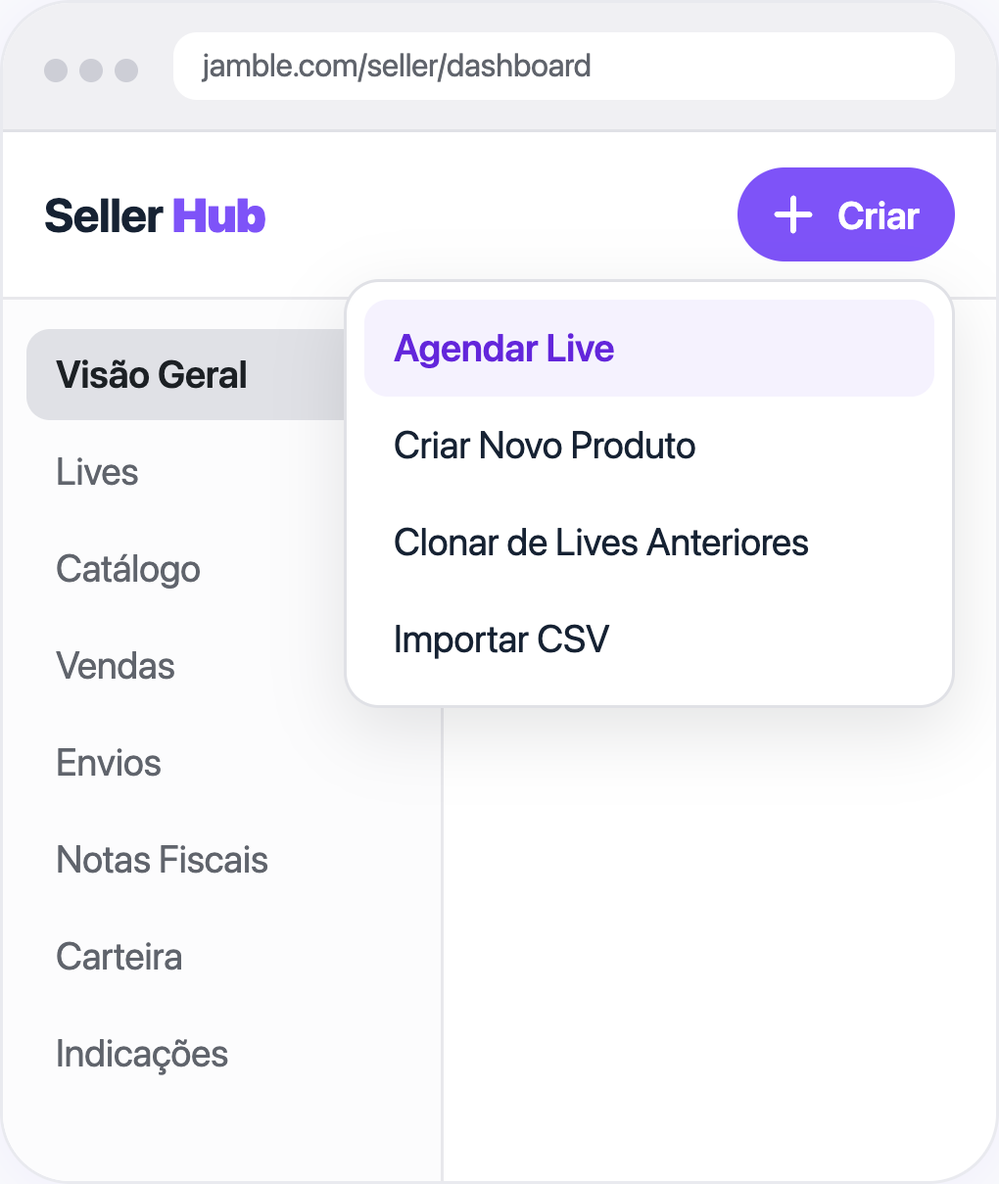
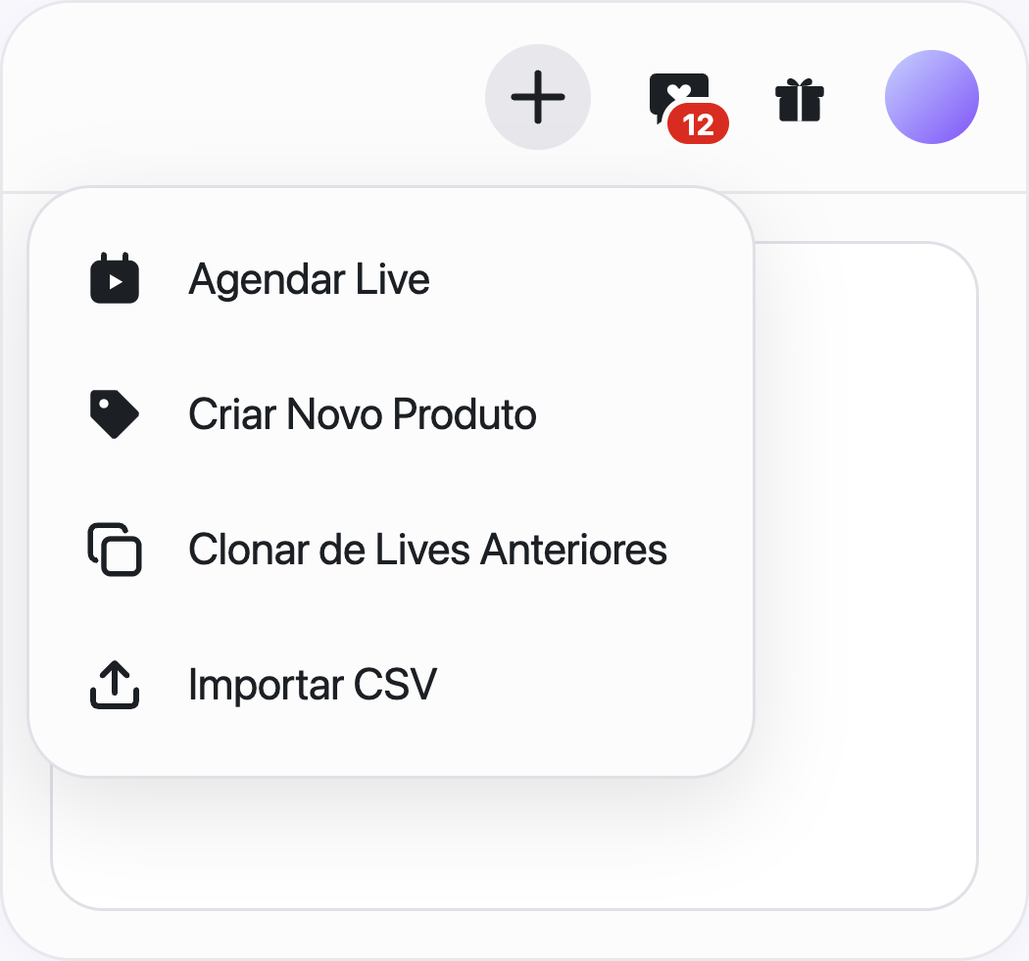
content: Seller Hub mockups from real screens, + button, no giveaways left
- Seller Hub: header + menu with icons (Agendar Live, Criar Novo Produto,
  Clonar de Lives Anteriores, Importar CSV), CSV dialog as shipped (live in
  the subtitle, Subir CSV / Baixar Modelo XLSX), live waiting room (Live
  começa em 4m 59s, Iniciar Live, Testar câmera e som) replacing the dialog
- The create button is a '+' in the header: wording updated in 5 articles
- Giveaways (removed Jul 1): dropped the remaining mentions in pré-ofertas,
  descoberta and clonar, and the 'Criar créditos de sorteios' row from the
  variants mockup (v4, also 'lives' instead of 'shows')

diff --git a/articles/seller-hub-sell-from-your-computer/mockup-sources/menu__pt-br.html b/articles/seller-hub-sell-from-your-computer/mockup-sources/menu__pt-br.html
@@ -1,32 +1,17 @@
 <!DOCTYPE html><html><head><meta name="viewport" content="width=device-width, initial-scale=1"><style>
 * { box-sizing: border-box; margin: 0; padding: 0; }
-body { font-family: -apple-system, "SF Pro Display", BlinkMacSystemFont, system-ui, sans-serif; background: #F9FAFC; display: flex; justify-content: center; padding: 12px; color: #162233; }
-.phone { width: 340px; background: #FFFFFF; border-radius: 24px; box-shadow: 0 2px 20px rgba(126,83,248,0.08); border: 1px solid #E9EAEF; overflow: hidden; }
-.btn { display: flex; align-items: center; justify-content: center; gap: 8px; height: 44px; border-radius: 22px; font-size: 15px; font-weight: 600; }
-.btn-brand { background: #7E53F8; color: #FFFFFF; }
-.btn-secondary { background: #E9EAEF; color: #162233; }
-.btn-outline { background: #FFFFFF; color: #162233; border: 1px solid #DADDE3; }
-.muted { color: #6B7A92; }
-.tert { color: #A0A7B7; }
-.bar { display:flex; align-items:center; gap:8px; padding:10px 14px; background:#F0F0F3; border-bottom:1px solid #E0E1E6; }
-.dots span { display:inline-block; width:8px; height:8px; border-radius:50%; background:#CDCED6; margin-right:4px; }
-.url { flex:1; background:#FFFFFF; border-radius:8px; padding:5px 10px; font-size:11px; color:#60646C; }
-.hdr { display:flex; align-items:center; justify-content:space-between; padding:12px 14px; border-bottom:1px solid #E8E8EC; }
-.mark { font-size:16px; font-weight:700; letter-spacing:-0.01em; }
-.mark b { color:#7E53F8; }
-.create { position:relative; }
-.create .btn { height:32px; padding:0 12px; font-size:13px; border-radius:16px; }
-.drop { position:absolute; right:0; top:38px; width:208px; background:#FFFFFF; border:1px solid #E0E1E6; border-radius:12px; box-shadow:0 8px 24px rgba(28,32,36,0.12); padding:6px; z-index:2; }
-.drop div { padding:9px 10px; font-size:13px; border-radius:8px; }
-.drop div:first-child { background:rgba(126,83,248,0.08); color:#6326DB; font-weight:600; }
-.body { display:flex; min-height:300px; }
-.side { width:150px; padding:10px 8px; border-right:1px solid #E8E8EC; background:#FCFCFD; }
-.side div { padding:8px 10px; font-size:13px; border-radius:8px; color:#60646C; margin-bottom:2px; }
-.side div.on { background:#E0E1E6; color:#1C2024; font-weight:600; }
-.main { flex:1; padding:14px 12px; }
-.ph { height:12px; border-radius:6px; background:#F0F0F3; margin-bottom:10px; }
+body { font-family: "SF Pro Display", "SF Pro Text", -apple-system, BlinkMacSystemFont, system-ui, sans-serif; background: #F9FAFC; display: flex; justify-content: center; padding: 12px; color: #1C2024; }
+.phone { width: 350px; background: #FCFCFD; border-radius: 24px; box-shadow: 0 2px 20px rgba(126,83,248,0.08); border: 1px solid #E8E8EC; overflow: hidden; position: relative; }
+.top { display:flex; align-items:center; justify-content:flex-end; gap:18px; padding:14px 16px; border-bottom:1px solid #E8E8EC; background:#FCFCFD; }
+.ib { position:relative; display:flex; }
+.ib.on { width:36px; height:36px; border-radius:50%; background:#E8E8EC; align-items:center; justify-content:center; }
+.bd { position:absolute; right:-7px; bottom:-6px; background:#D92C20; color:#FFFFFF; font-size:10px; font-weight:700; border-radius:9px; padding:1px 5px; border:2px solid #FCFCFD; }
+.av { width:32px; height:32px; border-radius:50%; background:linear-gradient(135deg,#C7D2FE,#7E53F8); }
+.menu { position:absolute; right:92px; top:62px; width:248px; background:#FCFCFD; border:1px solid #E0E1E6; border-radius:22px; box-shadow:0 10px 30px rgba(28,32,36,0.12); padding:8px 0; z-index:2; }
+.menu div { display:flex; align-items:center; gap:14px; padding:12px 18px; font-size:15px; }
+.bg { padding:16px; height:260px; }
+.card { border:1px solid #E0E1E6; border-radius:18px; height:100%; background:#FFFFFF; }
 </style></head><body><div class="phone">
-<div class="bar"><div class="dots"><span></span><span></span><span></span></div><div class="url">jamble.com/seller/dashboard</div></div>
-<div class="hdr"><div class="mark">Seller <b>Hub</b></div><div class="create"><div class="btn btn-brand"><svg width="14" height="14" viewBox="0 0 14 14" fill="none"><path d="M7 1.5V12.5M1.5 7H12.5" stroke="currentColor" stroke-width="2" stroke-linecap="round"/></svg> Criar</div><div class="drop"><div>Agendar Live</div><div>Criar Novo Produto</div><div>Clonar de Lives Anteriores</div><div>Importar CSV</div></div></div></div>
-<div class="body"><div class="side"><div class=on>Visão Geral</div><div>Lives</div><div>Catálogo</div><div>Vendas</div><div>Envios</div><div>Notas Fiscais</div><div>Carteira</div><div>Indicações</div></div><div class="main"><div class="ph" style="width:70%"></div><div class="ph" style="width:90%"></div><div class="ph" style="width:55%"></div></div></div>
+<div class="top"><div class="ib on"><svg width="22" height="22" viewBox="0 0 22 22"><path d="M11 3V19M3 11H19" stroke="#1C2024" stroke-width="2.4" stroke-linecap="round"/></svg></div><div class="ib"><svg width="24" height="24" viewBox="0 0 24 24"><path d="M4 4H20C21.1 4 22 4.9 22 6V16C22 17.1 21.1 18 20 18H9L4.5 21.5V18H4C2.9 18 2 17.1 2 16V6C2 4.9 2.9 4 4 4Z" fill="#1C2024"/><path d="M12 14.2L8.6 11C7.6 10 7.8 8.4 9 7.9C9.8 7.5 10.8 7.8 11.3 8.5L12 9.3L12.7 8.5C13.2 7.8 14.2 7.5 15 7.9C16.2 8.4 16.4 10 15.4 11Z" fill="#FFFFFF"/></svg><span class="bd">12</span></div><div class="ib"><svg width="22" height="22" viewBox="0 0 24 24"><rect x="3" y="8" width="18" height="4" rx="1" fill="#1C2024"/><rect x="4.5" y="12" width="15" height="9" rx="1.2" fill="#1C2024"/><path d="M12 8V21" stroke="#FFFFFF" stroke-width="1.6"/><path d="M12 8C10 4 6.5 4.5 7.5 7.2C8 8 12 8 12 8ZM12 8C14 4 17.5 4.5 16.5 7.2C16 8 12 8 12 8Z" fill="#1C2024"/></svg></div><div class="av"></div></div>
+<div class="menu"><div><svg width="22" height="22" viewBox="0 0 24 24"><rect x="3" y="5" width="18" height="16" rx="3.5" fill="#1C2024"/><path d="M8 3V6M16 3V6" stroke="#1C2024" stroke-width="2.2" stroke-linecap="round"/><path d="M10.2 10.2L15 13L10.2 15.8Z" fill="#FFFFFF"/></svg>Agendar Live</div><div><svg width="22" height="22" viewBox="0 0 24 24"><path d="M3 12.2V4.5C3 3.7 3.7 3 4.5 3H12.2C12.6 3 13 3.2 13.3 3.4L20.6 10.7C21.2 11.3 21.2 12.3 20.6 12.9L12.9 20.6C12.3 21.2 11.3 21.2 10.7 20.6L3.4 13.3C3.2 13 3 12.6 3 12.2Z" fill="#1C2024"/><circle cx="8" cy="8" r="1.7" fill="#FFFFFF"/></svg>Criar Novo Produto</div><div><svg width="22" height="22" viewBox="0 0 24 24" fill="none"><rect x="8" y="8" width="13" height="13" rx="2.5" stroke="#1C2024" stroke-width="2"/><path d="M16 5V5.5C16 4.1 14.9 3 13.5 3H5.5C4.1 3 3 4.1 3 5.5V13.5C3 14.9 4.1 16 5.5 16H5" stroke="#1C2024" stroke-width="2" stroke-linecap="round"/></svg>Clonar de Lives Anteriores</div><div><svg width="22" height="22" viewBox="0 0 24 24" fill="none"><path d="M12 15V4M12 4L7.5 8.5M12 4L16.5 8.5" stroke="#1C2024" stroke-width="2.2" stroke-linecap="round" stroke-linejoin="round"/><path d="M4 14V18C4 19.1 4.9 20 6 20H18C19.1 20 20 19.1 20 18V14" stroke="#1C2024" stroke-width="2.2" stroke-linecap="round"/></svg>Importar CSV</div></div><div class="bg"><div class="card"></div></div>
 </div></body></html>

diff --git a/articles/seller-hub-sell-from-your-computer/mockup-sources/menu__en.html b/articles/seller-hub-sell-from-your-computer/mockup-sources/menu__en.html
@@ -1,32 +1,17 @@
 <!DOCTYPE html><html><head><meta name="viewport" content="width=device-width, initial-scale=1"><style>
 * { box-sizing: border-box; margin: 0; padding: 0; }
-body { font-family: -apple-system, "SF Pro Display", BlinkMacSystemFont, system-ui, sans-serif; background: #F9FAFC; display: flex; justify-content: center; padding: 12px; color: #162233; }
-.phone { width: 340px; background: #FFFFFF; border-radius: 24px; box-shadow: 0 2px 20px rgba(126,83,248,0.08); border: 1px solid #E9EAEF; overflow: hidden; }
-.btn { display: flex; align-items: center; justify-content: center; gap: 8px; height: 44px; border-radius: 22px; font-size: 15px; font-weight: 600; }
-.btn-brand { background: #7E53F8; color: #FFFFFF; }
-.btn-secondary { background: #E9EAEF; color: #162233; }
-.btn-outline { background: #FFFFFF; color: #162233; border: 1px solid #DADDE3; }
-.muted { color: #6B7A92; }
-.tert { color: #A0A7B7; }
-.bar { display:flex; align-items:center; gap:8px; padding:10px 14px; background:#F0F0F3; border-bottom:1px solid #E0E1E6; }
-.dots span { display:inline-block; width:8px; height:8px; border-radius:50%; background:#CDCED6; margin-right:4px; }
-.url { flex:1; background:#FFFFFF; border-radius:8px; padding:5px 10px; font-size:11px; color:#60646C; }
-.hdr { display:flex; align-items:center; justify-content:space-between; padding:12px 14px; border-bottom:1px solid #E8E8EC; }
-.mark { font-size:16px; font-weight:700; letter-spacing:-0.01em; }
-.mark b { color:#7E53F8; }
-.create { position:relative; }
-.create .btn { height:32px; padding:0 12px; font-size:13px; border-radius:16px; }
-.drop { position:absolute; right:0; top:38px; width:208px; background:#FFFFFF; border:1px solid #E0E1E6; border-radius:12px; box-shadow:0 8px 24px rgba(28,32,36,0.12); padding:6px; z-index:2; }
-.drop div { padding:9px 10px; font-size:13px; border-radius:8px; }
-.drop div:first-child { background:rgba(126,83,248,0.08); color:#6326DB; font-weight:600; }
-.body { display:flex; min-height:300px; }
-.side { width:150px; padding:10px 8px; border-right:1px solid #E8E8EC; background:#FCFCFD; }
-.side div { padding:8px 10px; font-size:13px; border-radius:8px; color:#60646C; margin-bottom:2px; }
-.side div.on { background:#E0E1E6; color:#1C2024; font-weight:600; }
-.main { flex:1; padding:14px 12px; }
-.ph { height:12px; border-radius:6px; background:#F0F0F3; margin-bottom:10px; }
+body { font-family: "SF Pro Display", "SF Pro Text", -apple-system, BlinkMacSystemFont, system-ui, sans-serif; background: #F9FAFC; display: flex; justify-content: center; padding: 12px; color: #1C2024; }
+.phone { width: 350px; background: #FCFCFD; border-radius: 24px; box-shadow: 0 2px 20px rgba(126,83,248,0.08); border: 1px solid #E8E8EC; overflow: hidden; position: relative; }
+.top { display:flex; align-items:center; justify-content:flex-end; gap:18px; padding:14px 16px; border-bottom:1px solid #E8E8EC; background:#FCFCFD; }
+.ib { position:relative; display:flex; }
+.ib.on { width:36px; height:36px; border-radius:50%; background:#E8E8EC; align-items:center; justify-content:center; }
+.bd { position:absolute; right:-7px; bottom:-6px; background:#D92C20; color:#FFFFFF; font-size:10px; font-weight:700; border-radius:9px; padding:1px 5px; border:2px solid #FCFCFD; }
+.av { width:32px; height:32px; border-radius:50%; background:linear-gradient(135deg,#C7D2FE,#7E53F8); }
+.menu { position:absolute; right:92px; top:62px; width:248px; background:#FCFCFD; border:1px solid #E0E1E6; border-radius:22px; box-shadow:0 10px 30px rgba(28,32,36,0.12); padding:8px 0; z-index:2; }
+.menu div { display:flex; align-items:center; gap:14px; padding:12px 18px; font-size:15px; }
+.bg { padding:16px; height:260px; }
+.card { border:1px solid #E0E1E6; border-radius:18px; height:100%; background:#FFFFFF; }
 </style></head><body><div class="phone">
-<div class="bar"><div class="dots"><span></span><span></span><span></span></div><div class="url">jamble.com/seller/dashboard</div></div>
-<div class="hdr"><div class="mark">Seller <b>Hub</b></div><div class="create"><div class="btn btn-brand"><svg width="14" height="14" viewBox="0 0 14 14" fill="none"><path d="M7 1.5V12.5M1.5 7H12.5" stroke="currentColor" stroke-width="2" stroke-linecap="round"/></svg> Create</div><div class="drop"><div>Schedule a Live</div><div>Create New Listing</div><div>Clone from Past Lives</div><div>Import CSV</div></div></div></div>
-<div class="body"><div class="side"><div class=on>Overview</div><div>Lives</div><div>Catalog</div><div>Sales</div><div>Shipments</div><div>Invoices</div><div>Wallet</div><div>Referrals</div></div><div class="main"><div class="ph" style="width:70%"></div><div class="ph" style="width:90%"></div><div class="ph" style="width:55%"></div></div></div>
+<div class="top"><div class="ib on"><svg width="22" height="22" viewBox="0 0 22 22"><path d="M11 3V19M3 11H19" stroke="#1C2024" stroke-width="2.4" stroke-linecap="round"/></svg></div><div class="ib"><svg width="24" height="24" viewBox="0 0 24 24"><path d="M4 4H20C21.1 4 22 4.9 22 6V16C22 17.1 21.1 18 20 18H9L4.5 21.5V18H4C2.9 18 2 17.1 2 16V6C2 4.9 2.9 4 4 4Z" fill="#1C2024"/><path d="M12 14.2L8.6 11C7.6 10 7.8 8.4 9 7.9C9.8 7.5 10.8 7.8 11.3 8.5L12 9.3L12.7 8.5C13.2 7.8 14.2 7.5 15 7.9C16.2 8.4 16.4 10 15.4 11Z" fill="#FFFFFF"/></svg><span class="bd">12</span></div><div class="ib"><svg width="22" height="22" viewBox="0 0 24 24"><rect x="3" y="8" width="18" height="4" rx="1" fill="#1C2024"/><rect x="4.5" y="12" width="15" height="9" rx="1.2" fill="#1C2024"/><path d="M12 8V21" stroke="#FFFFFF" stroke-width="1.6"/><path d="M12 8C10 4 6.5 4.5 7.5 7.2C8 8 12 8 12 8ZM12 8C14 4 17.5 4.5 16.5 7.2C16 8 12 8 12 8Z" fill="#1C2024"/></svg></div><div class="av"></div></div>
+<div class="menu"><div><svg width="22" height="22" viewBox="0 0 24 24"><rect x="3" y="5" width="18" height="16" rx="3.5" fill="#1C2024"/><path d="M8 3V6M16 3V6" stroke="#1C2024" stroke-width="2.2" stroke-linecap="round"/><path d="M10.2 10.2L15 13L10.2 15.8Z" fill="#FFFFFF"/></svg>Schedule a Live</div><div><svg width="22" height="22" viewBox="0 0 24 24"><path d="M3 12.2V4.5C3 3.7 3.7 3 4.5 3H12.2C12.6 3 13 3.2 13.3 3.4L20.6 10.7C21.2 11.3 21.2 12.3 20.6 12.9L12.9 20.6C12.3 21.2 11.3 21.2 10.7 20.6L3.4 13.3C3.2 13 3 12.6 3 12.2Z" fill="#1C2024"/><circle cx="8" cy="8" r="1.7" fill="#FFFFFF"/></svg>Create New Listing</div><div><svg width="22" height="22" viewBox="0 0 24 24" fill="none"><rect x="8" y="8" width="13" height="13" rx="2.5" stroke="#1C2024" stroke-width="2"/><path d="M16 5V5.5C16 4.1 14.9 3 13.5 3H5.5C4.1 3 3 4.1 3 5.5V13.5C3 14.9 4.1 16 5.5 16H5" stroke="#1C2024" stroke-width="2" stroke-linecap="round"/></svg>Clone from Past Lives</div><div><svg width="22" height="22" viewBox="0 0 24 24" fill="none"><path d="M12 15V4M12 4L7.5 8.5M12 4L16.5 8.5" stroke="#1C2024" stroke-width="2.2" stroke-linecap="round" stroke-linejoin="round"/><path d="M4 14V18C4 19.1 4.9 20 6 20H18C19.1 20 20 19.1 20 18V14" stroke="#1C2024" stroke-width="2.2" stroke-linecap="round"/></svg>Import CSV</div></div><div class="bg"><div class="card"></div></div>
 </div></body></html>

diff --git a/articles/seller-hub-sell-from-your-computer/mockup-sources/csv-import__pt-br.html b/articles/seller-hub-sell-from-your-computer/mockup-sources/csv-import__pt-br.html
@@ -1,29 +1,23 @@
 <!DOCTYPE html><html><head><meta name="viewport" content="width=device-width, initial-scale=1"><style>
 * { box-sizing: border-box; margin: 0; padding: 0; }
-body { font-family: -apple-system, "SF Pro Display", BlinkMacSystemFont, system-ui, sans-serif; background: #F9FAFC; display: flex; justify-content: center; padding: 12px; color: #162233; }
-.phone { width: 340px; background: #FFFFFF; border-radius: 24px; box-shadow: 0 2px 20px rgba(126,83,248,0.08); border: 1px solid #E9EAEF; overflow: hidden; }
-.btn { display: flex; align-items: center; justify-content: center; gap: 8px; height: 44px; border-radius: 22px; font-size: 15px; font-weight: 600; }
-.btn-brand { background: #7E53F8; color: #FFFFFF; }
-.btn-secondary { background: #E9EAEF; color: #162233; }
-.btn-outline { background: #FFFFFF; color: #162233; border: 1px solid #DADDE3; }
-.muted { color: #6B7A92; }
-.tert { color: #A0A7B7; }
-.dlg { padding:18px; }
-.dlg h1 { font-size:18px; font-weight:600; line-height:24px; }
-.dlg .sub { font-size:13px; line-height:18px; margin:4px 0 16px; }
-.lbl { font-size:12px; font-weight:600; color:#6B7A92; margin-bottom:6px; }
-.sel { display:flex; justify-content:space-between; align-items:center; border:1px solid #DADDE3; border-radius:10px; padding:11px 12px; font-size:14px; margin-bottom:14px; }
-.zone { border:1.5px dashed #BDC2CD; border-radius:12px; background:#F9FAFC; padding:20px 12px; text-align:center; margin-bottom:12px; }
-.zone .t { font-size:15px; font-weight:600; margin-top:8px; }
-.zone .h { font-size:12px; margin-top:4px; }
-.row { display:flex; gap:10px; }
-.row .btn { flex:1; font-size:13px; height:40px; }
-.foot { margin-top:14px; }
-.btn-dis { background:#E9EAEF; color:#BDC2CD; }
+body { font-family: "SF Pro Display", "SF Pro Text", -apple-system, BlinkMacSystemFont, system-ui, sans-serif; background: #F9FAFC; display: flex; justify-content: center; padding: 12px; color: #1C2024; }
+.phone { width: 350px; background: #FCFCFD; border-radius: 24px; box-shadow: 0 2px 20px rgba(126,83,248,0.08); border: 1px solid #E8E8EC; overflow: hidden; position: relative; }
+.hd { display:flex; align-items:center; gap:12px; padding:16px; border-bottom:1px solid #E8E8EC; }
+.cb { width:32px; height:32px; border-radius:50%; background:#F0F0F3; display:flex; align-items:center; justify-content:center; font-size:16px; flex-shrink:0; }
+.tt { flex:1; min-width:0; }
+.tt b { display:block; font-size:16px; }
+.tt span { font-size:12px; color:#60646C; }
+.zone { margin:12px; border:1.5px dashed #D9D9E0; border-radius:18px; background:#F9F9FB; padding:20px 14px; text-align:center; }
+.uc { width:52px; height:52px; border-radius:50%; border:1px solid #E0E1E6; background:#FFFFFF; display:flex; align-items:center; justify-content:center; margin:0 auto 12px; }
+.z1 { font-size:16px; font-weight:600; }
+.z2 { font-size:13px; color:#60646C; margin-top:4px; }
+.z3 { font-size:12px; color:#80838D; line-height:17px; margin:14px 4px 14px; }
+.bs { display:flex; gap:8px; justify-content:center; }
+.b { height:38px; border-radius:19px; padding:0 14px; display:flex; align-items:center; font-size:13px; font-weight:600; }
+.b1 { background:#1C2024; color:#FFFFFF; }
+.b2 { background:#FFFFFF; border:1px solid #D9D9E0; }
 </style></head><body><div class="phone">
-<div class="dlg"><h1>Importar produtos por CSV</h1><div class="sub muted">Nada é criado antes de você revisar a prévia.</div>
-<div class="lbl">Importar para a Live</div><div class="sel"><span>Pokémon TCG, sexta 20h</span><svg width="8" height="13" viewBox="0 0 8 13" fill="none"><path d="M1.5 1.5L6.5 6.5L1.5 11.5" stroke="#A0A7B7" stroke-width="1.8" stroke-linecap="round" stroke-linejoin="round"/></svg></div>
-<div class="zone"><svg width="26" height="26" viewBox="0 0 24 24" fill="none"><path d="M12 15V4M12 4L7.5 8.5M12 4L16.5 8.5" stroke="#7E53F8" stroke-width="2" stroke-linecap="round" stroke-linejoin="round"/><path d="M4 15V18C4 19.1 4.9 20 6 20H18C19.1 20 20 19.1 20 18V15" stroke="#7E53F8" stroke-width="2" stroke-linecap="round"/></svg><div class="t">Arraste seu CSV aqui</div><div class="h tert">Tamanho máximo: 2 MB · 200 linhas</div></div>
-<div class="row"><div class="btn btn-outline">Baixar Modelo XLSX</div><div class="btn btn-secondary">Subir CSV</div></div>
-<div class="foot"><div class="btn btn-dis">Importar</div></div></div>
+<div class="hd"><div class="cb">‹</div><div class="tt"><b>Importar produtos por CSV</b><span>Os produtos escolhidos entram nesta Live: Pokémon TCG sexta</span></div><div class="cb">✕</div></div>
+<div class="zone"><div class="uc"><svg width="22" height="22" viewBox="0 0 24 24" fill="none"><path d="M12 15V4M12 4L7.5 8.5M12 4L16.5 8.5" stroke="#1C2024" stroke-width="2.2" stroke-linecap="round" stroke-linejoin="round"/><path d="M4 14V18C4 19.1 4.9 20 6 20H18C19.1 20 20 19.1 20 18V14" stroke="#1C2024" stroke-width="2.2" stroke-linecap="round"/></svg></div><div class="z1">Arraste seu CSV aqui</div><div class="z2">Tamanho máximo: 2 MB · 200 linhas</div><div class="z3">Abra o modelo XLSX no Excel, escolha a aba da categoria e clique nas células de preenchimento para selecionar as opções das listas.</div>
+<div class="bs"><div class="b b1">Subir CSV</div><div class="b b2">Baixar Modelo XLSX</div></div></div>
 </div></body></html>

diff --git a/articles/seller-hub-sell-from-your-computer/mockup-sources/csv-import__en.html b/articles/seller-hub-sell-from-your-computer/mockup-sources/csv-import__en.html
@@ -1,29 +1,23 @@
 <!DOCTYPE html><html><head><meta name="viewport" content="width=device-width, initial-scale=1"><style>
 * { box-sizing: border-box; margin: 0; padding: 0; }
-body { font-family: -apple-system, "SF Pro Display", BlinkMacSystemFont, system-ui, sans-serif; background: #F9FAFC; display: flex; justify-content: center; padding: 12px; color: #162233; }
-.phone { width: 340px; background: #FFFFFF; border-radius: 24px; box-shadow: 0 2px 20px rgba(126,83,248,0.08); border: 1px solid #E9EAEF; overflow: hidden; }
-.btn { display: flex; align-items: center; justify-content: center; gap: 8px; height: 44px; border-radius: 22px; font-size: 15px; font-weight: 600; }
-.btn-brand { background: #7E53F8; color: #FFFFFF; }
-.btn-secondary { background: #E9EAEF; color: #162233; }
-.btn-outline { background: #FFFFFF; color: #162233; border: 1px solid #DADDE3; }
-.muted { color: #6B7A92; }
-.tert { color: #A0A7B7; }
-.dlg { padding:18px; }
-.dlg h1 { font-size:18px; font-weight:600; line-height:24px; }
-.dlg .sub { font-size:13px; line-height:18px; margin:4px 0 16px; }
-.lbl { font-size:12px; font-weight:600; color:#6B7A92; margin-bottom:6px; }
-.sel { display:flex; justify-content:space-between; align-items:center; border:1px solid #DADDE3; border-radius:10px; padding:11px 12px; font-size:14px; margin-bottom:14px; }
-.zone { border:1.5px dashed #BDC2CD; border-radius:12px; background:#F9FAFC; padding:20px 12px; text-align:center; margin-bottom:12px; }
-.zone .t { font-size:15px; font-weight:600; margin-top:8px; }
-.zone .h { font-size:12px; margin-top:4px; }
-.row { display:flex; gap:10px; }
-.row .btn { flex:1; font-size:13px; height:40px; }
-.foot { margin-top:14px; }
-.btn-dis { background:#E9EAEF; color:#BDC2CD; }
+body { font-family: "SF Pro Display", "SF Pro Text", -apple-system, BlinkMacSystemFont, system-ui, sans-serif; background: #F9FAFC; display: flex; justify-content: center; padding: 12px; color: #1C2024; }
+.phone { width: 350px; background: #FCFCFD; border-radius: 24px; box-shadow: 0 2px 20px rgba(126,83,248,0.08); border: 1px solid #E8E8EC; overflow: hidden; position: relative; }
+.hd { display:flex; align-items:center; gap:12px; padding:16px; border-bottom:1px solid #E8E8EC; }
+.cb { width:32px; height:32px; border-radius:50%; background:#F0F0F3; display:flex; align-items:center; justify-content:center; font-size:16px; flex-shrink:0; }
+.tt { flex:1; min-width:0; }
+.tt b { display:block; font-size:16px; }
+.tt span { font-size:12px; color:#60646C; }
+.zone { margin:12px; border:1.5px dashed #D9D9E0; border-radius:18px; background:#F9F9FB; padding:20px 14px; text-align:center; }
+.uc { width:52px; height:52px; border-radius:50%; border:1px solid #E0E1E6; background:#FFFFFF; display:flex; align-items:center; justify-content:center; margin:0 auto 12px; }
+.z1 { font-size:16px; font-weight:600; }
+.z2 { font-size:13px; color:#60646C; margin-top:4px; }
+.z3 { font-size:12px; color:#80838D; line-height:17px; margin:14px 4px 14px; }
+.bs { display:flex; gap:8px; justify-content:center; }
+.b { height:38px; border-radius:19px; padding:0 14px; display:flex; align-items:center; font-size:13px; font-weight:600; }
+.b1 { background:#1C2024; color:#FFFFFF; }
+.b2 { background:#FFFFFF; border:1px solid #D9D9E0; }
 </style></head><body><div class="phone">
-<div class="dlg"><h1>Import listings from a CSV</h1><div class="sub muted">Nothing is created before you review the preview.</div>
-<div class="lbl">Import Into Live</div><div class="sel"><span>Pokémon TCG, Friday 8pm</span><svg width="8" height="13" viewBox="0 0 8 13" fill="none"><path d="M1.5 1.5L6.5 6.5L1.5 11.5" stroke="#A0A7B7" stroke-width="1.8" stroke-linecap="round" stroke-linejoin="round"/></svg></div>
-<div class="zone"><svg width="26" height="26" viewBox="0 0 24 24" fill="none"><path d="M12 15V4M12 4L7.5 8.5M12 4L16.5 8.5" stroke="#7E53F8" stroke-width="2" stroke-linecap="round" stroke-linejoin="round"/><path d="M4 15V18C4 19.1 4.9 20 6 20H18C19.1 20 20 19.1 20 18V15" stroke="#7E53F8" stroke-width="2" stroke-linecap="round"/></svg><div class="t">Drag your CSV here</div><div class="h tert">Maximum size: 2 MB · 200 rows</div></div>
-<div class="row"><div class="btn btn-outline">Download XLSX Template</div><div class="btn btn-secondary">Upload CSV</div></div>
-<div class="foot"><div class="btn btn-dis">Import</div></div></div>
+<div class="hd"><div class="cb">‹</div><div class="tt"><b>Import listings from a CSV</b><span>The listings you pick go into this Live: Pokémon TCG Friday</span></div><div class="cb">✕</div></div>
+<div class="zone"><div class="uc"><svg width="22" height="22" viewBox="0 0 24 24" fill="none"><path d="M12 15V4M12 4L7.5 8.5M12 4L16.5 8.5" stroke="#1C2024" stroke-width="2.2" stroke-linecap="round" stroke-linejoin="round"/><path d="M4 14V18C4 19.1 4.9 20 6 20H18C19.1 20 20 19.1 20 18V14" stroke="#1C2024" stroke-width="2.2" stroke-linecap="round"/></svg></div><div class="z1">Drag your CSV here</div><div class="z2">Maximum size: 2 MB · 200 rows</div><div class="z3">Open the XLSX template in Excel, choose your category's tab, and click the entry cells to select options from the dropdown lists.</div>
+<div class="bs"><div class="b b1">Upload CSV</div><div class="b b2">Download XLSX Template</div></div></div>
 </div></body></html>

diff --git a/articles/seller-hub-sell-from-your-computer/mockup-sources/waiting-room__pt-br.html b/articles/seller-hub-sell-from-your-computer/mockup-sources/waiting-room__pt-br.html
@@ -1,0 +1,15 @@
+<!DOCTYPE html><html><head><meta name="viewport" content="width=device-width, initial-scale=1"><style>
+* { box-sizing: border-box; margin: 0; padding: 0; }
+body { font-family: "SF Pro Display", "SF Pro Text", -apple-system, BlinkMacSystemFont, system-ui, sans-serif; background: #F9FAFC; display: flex; justify-content: center; padding: 12px; color: #1C2024; }
+.phone { width: 350px; background: #FCFCFD; border-radius: 24px; box-shadow: 0 2px 20px rgba(126,83,248,0.08); border: 1px solid #E8E8EC; overflow: hidden; position: relative; }
+.phone { background: linear-gradient(180deg,#A9CBE8 0%,#D9E7F2 38%,#9DB58C 70%,#6E8B5E 100%); padding: 40px 18px; }
+.gl { background:rgba(40,42,46,0.78); border:1px solid rgba(255,255,255,0.25); border-radius:22px; padding:22px 18px 18px; text-align:center; color:#FFFFFF; }
+.l1 { font-size:14px; color:rgba(255,255,255,0.75); }
+.l2 { font-size:30px; font-weight:700; margin:4px 0 18px; letter-spacing:-0.01em; }
+.b { height:46px; border-radius:23px; display:flex; align-items:center; justify-content:center; font-size:15px; font-weight:600; margin-bottom:10px; }
+.red { background:#CF3B2E; }
+.dk { background:#1C2024; }
+.h { font-size:12px; color:rgba(255,255,255,0.6); line-height:17px; margin-top:4px; }
+</style></head><body><div class="phone">
+<div class="gl"><div class="l1">Live começa em</div><div class="l2">4m 59s</div><div class="b red">Iniciar Live</div><div class="b dk">Testar câmera e som</div><div class="h">Escolha se quer transmitir deste dispositivo antes de iniciar.</div></div>
+</div></body></html>

diff --git a/articles/seller-hub-sell-from-your-computer/mockup-sources/waiting-room__en.html b/articles/seller-hub-sell-from-your-computer/mockup-sources/waiting-room__en.html
@@ -1,0 +1,15 @@
+<!DOCTYPE html><html><head><meta name="viewport" content="width=device-width, initial-scale=1"><style>
+* { box-sizing: border-box; margin: 0; padding: 0; }
+body { font-family: "SF Pro Display", "SF Pro Text", -apple-system, BlinkMacSystemFont, system-ui, sans-serif; background: #F9FAFC; display: flex; justify-content: center; padding: 12px; color: #1C2024; }
+.phone { width: 350px; background: #FCFCFD; border-radius: 24px; box-shadow: 0 2px 20px rgba(126,83,248,0.08); border: 1px solid #E8E8EC; overflow: hidden; position: relative; }
+.phone { background: linear-gradient(180deg,#A9CBE8 0%,#D9E7F2 38%,#9DB58C 70%,#6E8B5E 100%); padding: 40px 18px; }
+.gl { background:rgba(40,42,46,0.78); border:1px solid rgba(255,255,255,0.25); border-radius:22px; padding:22px 18px 18px; text-align:center; color:#FFFFFF; }
+.l1 { font-size:14px; color:rgba(255,255,255,0.75); }
+.l2 { font-size:30px; font-weight:700; margin:4px 0 18px; letter-spacing:-0.01em; }
+.b { height:46px; border-radius:23px; display:flex; align-items:center; justify-content:center; font-size:15px; font-weight:600; margin-bottom:10px; }
+.red { background:#CF3B2E; }
+.dk { background:#1C2024; }
+.h { font-size:12px; color:rgba(255,255,255,0.6); line-height:17px; margin-top:4px; }
+</style></head><body><div class="phone">
+<div class="gl"><div class="l1">Live starts in</div><div class="l2">4m 59s</div><div class="b red">Go Live</div><div class="b dk">Test camera and sound</div><div class="h">Choose whether to broadcast from this device before starting.</div></div>
+</div></body></html>

diff --git a/articles/variants-for-sellers-sizes-and-colors/mockup-sources/screen-2__pt-br.html b/articles/variants-for-sellers-sizes-and-colors/mockup-sources/screen-2__pt-br.html
@@ -13,8 +13,8 @@ body { font-family: -apple-system, "SF Pro Display", BlinkMacSystemFont, system-
 <div class="phone">
   <div class="sheet">
     <div class="action">Nova listagem rápida</div>
-    <div class="action highlight">Clonar listagens de shows anteriores</div>
-    <div class="action last">Criar créditos de sorteios</div>
+    <div class="action highlight last">Clonar listagens de lives anteriores</div>
+    
   </div>
   <div class="cancel-sheet">
     <div class="cancel">Cancelar</div>

diff --git a/articles/variants-for-sellers-sizes-and-colors/mockup-sources/screen-2__en.html b/articles/variants-for-sellers-sizes-and-colors/mockup-sources/screen-2__en.html
@@ -13,8 +13,8 @@ body { font-family: -apple-system, "SF Pro Display", BlinkMacSystemFont, system-
 <div class="phone">
   <div class="sheet">
     <div class="action">New Quickie Listing</div>
-    <div class="action highlight">Clone Past Shows Listings</div>
-    <div class="action last">Create Credits Giveaway</div>
+    <div class="action highlight last">Clone Past Shows Listings</div>
+    
   </div>
   <div class="cancel-sheet">
     <div class="cancel">Cancel</div>

diff --git a/articles/seller-hub-sell-from-your-computer/en.md b/articles/seller-hub-sell-from-your-computer/en.md
@@ -20,7 +20,7 @@ If you sign in to the app with Google or Apple, you can also use **Entrar com Go
 
 ## What you find in the menu
 
-![Seller Hub in the browser, with the side menu and the Create button open showing Schedule a Live, Create New Listing, Clone from Past Lives and Import CSV](./assets/mockups/seller-hub-sell-from-your-computer__menu__en.png)
+![Seller Hub in the browser, with the + button open showing Schedule a Live, Create New Listing, Clone from Past Lives and Import CSV](./assets/mockups/seller-hub-sell-from-your-computer__menu__en.png)
 
 - **Visão Geral** (Overview): a summary of your account and your next lives
 - **Lives**: schedule, edit and follow your lives
@@ -34,9 +34,9 @@ If you sign in to the app with Google or Apple, you can also use **Entrar com Go
 
 **Mensagens** (Messages) is the icon at the top of the screen.
 
-## The Criar button
+## The + button
 
-At the top of the screen, the **Criar** (Create) button gathers the most used shortcuts:
+At the top of the screen, the **+** button gathers the most used shortcuts:
 
 - **Agendar Live**: create a new live
 - **Criar Novo Produto**: choose **Marketplace** to sell anytime, without a live, or add the product to a live
@@ -49,7 +49,7 @@ At the top of the screen, the **Criar** (Create) button gathers the most used sh
 
 With the CSV import, you create many products at once. The products go into a scheduled live, so schedule the live first.
 
-1. Click **Criar**, then **Importar CSV**.
+1. Click the **+**, then **Importar CSV**.
 2. Click **Baixar Modelo XLSX** (download the template) and open it in Excel or another spreadsheet program.
 3. Pick the tab for your products' category and fill in one row per product.
 4. Save the file as **CSV**.
@@ -59,11 +59,11 @@ Before any product is created, the Seller Hub shows a preview. If a row has an e
 
 ## Host your live from your computer
 
-![Start your Live? window with the Broadcast and Start without broadcasting buttons](./assets/mockups/seller-hub-sell-from-your-computer__go-live-choice__en.png)
+![Live waiting room in the Seller Hub with Live starts in 4m 59s and the Go Live and Test camera and sound buttons](./assets/mockups/seller-hub-sell-from-your-computer__waiting-room__en.png)
 
 To start a live, you need a payout account and a shipping address on file. If one is missing, the Seller Hub tells you and shows where to set it up.
 
-On your live's page, click **Iniciar Live** (start live) and choose:
+On your live's page, you see how long until it starts. Use **Testar câmera e som** (test camera and sound) to check everything first, without going live. When it is time, click **Iniciar Live** (go live) and choose:
 
 - **Transmitir**: the live starts with your computer's camera and microphone
 - **Iniciar sem transmitir**: the live starts and you stream from another device, like your phone

diff --git a/articles/seller-hub-sell-from-your-computer/pt-br.md b/articles/seller-hub-sell-from-your-computer/pt-br.md
@@ -20,7 +20,7 @@ Se você entra no app com Google ou Apple, também pode usar **Entrar com Google
 
 ## O que você encontra no menu
 
-![Seller Hub no navegador, com o menu lateral e o botão Criar aberto mostrando Agendar Live, Criar Novo Produto, Clonar de Lives Anteriores e Importar CSV](./assets/mockups/seller-hub-sell-from-your-computer__menu__pt-br.png)
+![Seller Hub no navegador, com o botão + aberto mostrando Agendar Live, Criar Novo Produto, Clonar de Lives Anteriores e Importar CSV](./assets/mockups/seller-hub-sell-from-your-computer__menu__pt-br.png)
 
 - **Visão Geral**: um resumo da sua conta e das suas próximas lives
 - **Lives**: agende, edite e acompanhe suas lives
@@ -34,9 +34,9 @@ Se você entra no app com Google ou Apple, também pode usar **Entrar com Google
 
 As **Mensagens** ficam no ícone no topo da tela.
 
-## O botão Criar
+## O botão +
 
-No topo da tela, o botão **Criar** reúne os atalhos mais usados:
+No topo da tela, o botão **+** reúne os atalhos mais usados:
 
 - **Agendar Live**: crie uma nova live
 - **Criar Novo Produto**: escolha **Marketplace** para vender a qualquer momento, sem live, ou adicione o produto a uma live
@@ -49,7 +49,7 @@ No topo da tela, o botão **Criar** reúne os atalhos mais usados:
 
 Com a importação por CSV, você cria muitos produtos de uma vez. Os produtos entram em uma live agendada, então agende a live antes.
 
-1. Clique em **Criar** e depois em **Importar CSV**.
+1. Clique no **+** e depois em **Importar CSV**.
 2. Clique em **Baixar Modelo XLSX** e abra o modelo no Excel ou em outro programa de planilhas.
 3. Escolha a aba da categoria dos seus produtos e preencha uma linha por produto.
 4. Salve o arquivo no formato **CSV**.
@@ -59,11 +59,11 @@ Antes de criar qualquer produto, o Seller Hub mostra uma prévia. Se alguma linh
 
 ## Fazer sua live pelo computador
 
-![Janela Iniciar sua live? com os botões Transmitir e Iniciar sem transmitir](./assets/mockups/seller-hub-sell-from-your-computer__go-live-choice__pt-br.png)
+![Sala de espera da live no Seller Hub com Live começa em 4m 59s e os botões Iniciar Live e Testar câmera e som](./assets/mockups/seller-hub-sell-from-your-computer__waiting-room__pt-br.png)
 
 Para começar uma live, você precisa ter uma conta de recebimento e um endereço de envio cadastrados. Se faltar algum, o Seller Hub avisa e mostra onde configurar.
 
-Na página da sua live, clique em **Iniciar Live** e escolha:
+Na página da sua live, você vê quanto tempo falta para começar. Use **Testar câmera e som** para conferir tudo antes, sem entrar no ar. Na hora, clique em **Iniciar Live** e escolha:
 
 - **Transmitir**: a live começa com a câmera e o microfone do computador
 - **Iniciar sem transmitir**: a live começa e você transmite de outro aparelho, como o celular

diff --git a/articles/faq-sellers/en.md b/articles/faq-sellers/en.md
@@ -86,7 +86,7 @@ If you have not created any live yet, go to your profile and tap "Agendar uma Li
 
 If you already have lives and want to add another, go to your profile, tap the "+" button and select "Agendar uma Live".
 
-On a computer, use the **Criar** button, then **Agendar Live**, in the Seller Hub.
+On a computer, use the **+** button, then **Agendar Live**, in the Seller Hub.
 
 Tips for an attractive live:
 
@@ -189,7 +189,7 @@ Yes. On your live's page in the Seller Hub, click **Iniciar Live** and choose **
 
 ## Can I import my products from a spreadsheet?
 
-Yes, in the Seller Hub. Click **Criar**, then **Importar CSV**, download the template, fill it in and upload the file. The products go into a scheduled live. Each file can have up to 200 rows.
+Yes, in the Seller Hub. Click the **+**, then **Importar CSV**, download the template, fill it in and upload the file. The products go into a scheduled live. Each file can have up to 200 rows.
 
 ## Do I need to be live to sell?
 

diff --git a/articles/cloning-items/pt-br.md b/articles/cloning-items/pt-br.md
@@ -111,7 +111,6 @@ O clone é um **produto novo** no seu show. Você pode editar qualquer campo no 
 ## Regras e limitações
 
 - **Você não pode clonar o mesmo produto duas vezes** no mesmo show. Se um produto já foi clonado para o seu show atual, ele aparece acinzentado com **(Added)** e não pode ser selecionado novamente
-- **Produtos de sorteio não podem ser clonados.** Se um produto foi configurado como sorteio, ele não aparecerá na seleção de clonagem
 - **Você pode selecionar de vários shows.** Ao usar Clonar de Shows, você pode navegar por diferentes shows e selecionar produtos de cada um antes de importar todos de uma vez
 - **Importar da Loja só está disponível durante um show ao vivo.** Se quiser trazer produtos da loja para um show antes de ir ao vivo, use Clonar de Shows (se esses produtos também existem em outro show)
 - **Edições em um clone são independentes.** Mudar o preço, título ou qualquer detalhe em um produto clonado não afeta o original
